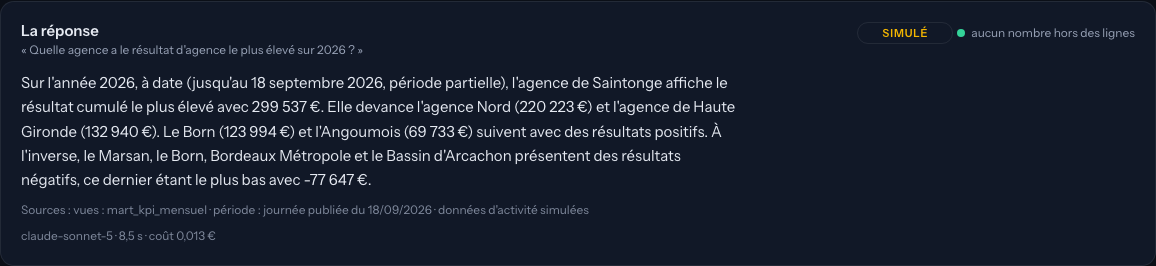
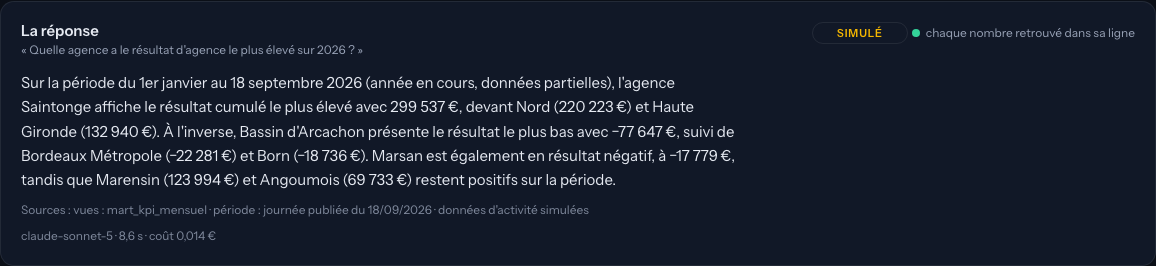
docs: captures de l'écran Analyste refaites après le contrôle d'attribution, guide illustré et reprise à jour

diff --git a/docs/REPRISE.md b/docs/REPRISE.md
@@ -2,14 +2,14 @@
 
 À lire en premier en reprenant une session (avec `CLAUDE.md`). Ce fichier remplace la relecture intégrale de `docs/` : il donne l'état exact, les décisions prises et la feuille de route. Le détail des preuves est dans `docs/JOURNAL.md`.
 
-## État au 19 septembre 2026, 03:00
+## État au 19 septembre 2026, 12:30
 
-- **En ligne** : https://buta.lyfh.fr (lots 0 à 4b déployés, lot 5 en cours). Onze écrans finis (Vue d'ensemble, Territoires, Funnel, Ventes et marge, Forecast, Pose et encaissement, Plans d'action et rituels, Qualité, Automatisations, Analyste, Méthode). Analyste en navigation depuis le 19 septembre : clé `ANTHROPIC_API_KEY` posée par Frédéric le 18 au soir (budget `IA_BUDGET_JOUR_EUR` = 5), évaluation 24/24 (100 %) après trois passes (JOURNAL lot 5 : migration 0031 catalogue commenté colonne par colonne et surcharge `round`, socle IA avec cache du prompt, budgets de sortie et rejeu sans réflexion). Badge de fraîcheur en direct, e2e 42/42 contre la production, Lighthouse 96 à 100 en performance et 100 en accessibilité sur les onze écrans (Analyste : 100 partout).
+- **En ligne** : https://buta.lyfh.fr (lots 0 à 4b déployés, lot 5 en cours). Onze écrans finis (Vue d'ensemble, Territoires, Funnel, Ventes et marge, Forecast, Pose et encaissement, Plans d'action et rituels, Qualité, Automatisations, Analyste, Méthode). Analyste en navigation depuis le 19 septembre : clé `ANTHROPIC_API_KEY` posée par Frédéric le 18 au soir (budget `IA_BUDGET_JOUR_EUR` = 5), évaluation 24/24 (100 %) à 2 h 40 après trois passes (JOURNAL lot 5 : migration 0031 catalogue commenté colonne par colonne et surcharge `round`, socle IA avec cache du prompt, budgets de sortie et rejeu sans réflexion), puis relecture à trois lentilles de l'écran le matin du 19 (80 réfutations, corrections déployées à midi : période bornée à la journée publiée, sources et badge calculés par le programme, codes traduits en libellés avant la rédaction, contrôle des nombres en lettres, en signe et en attribution phrase par phrase, statut quota, écran revu, migration 0033 purge du journal ; passes de contrôle 10/10 sur les questions à libellés multiples avec le critère renforcé). Le jeu complet (24 questions, 0,35 €) est à rejouer avant le gel de lundi, quand le budget du jour est remis à zéro (minuit, heure de Paris). Badge de fraîcheur en direct, e2e 42/42 contre la production, Lighthouse 96 à 100 en performance et 100 en accessibilité sur les onze écrans (Analyste : 100 partout).
 - **Relecture à trois lentilles faite le 18 septembre** (JOURNAL, lot 5) : lentilles faits et recruteur traitées (17 corrections, migration 0027 : pagination PostgREST, prorata des coûts d'acquisition, CA réalisé exact, double comptage des salaires techniciens corrigé, taux d'annulation immature en n. d., cohorte mûre pour la matrice et les canaux, part retenue du run-rate, exports n8n inactifs tant qu'absents) ; lentille forme et typographie traitée le soir (espace insécable U+00A0 à la place de la fine, migration 0029, palette à huit couleurs, en-têtes de tableaux, Sankey vertical sur téléphone, axes et colonnes à unité unique) ; polices préchargées depuis `public/fonts/` (décalage de mise en page 0,26 vers 0 sous 4G). Migrations jusqu'à 0029. Points renvoyés à Frédéric : nom de l'agence « Nord » près de Lumélio sur Méthode, monogramme ambre, titre et classement de Territoires, courbe de qualité sur 17 jours ; points de forme non retenus listés dans le journal.
 - **Guide illustré** : `docs/GUIDE_ILLUSTRE.md` (contexte, vocabulaire, données, lecture de chaque visuel, notice d'utilisation) avec 86 captures dans `docs/captures/guide/` (scripts `scratchpad/captures-guide.mjs` et `scratchpad/captures-analyste.mjs`, à relancer après un changement visuel ; le second pose deux questions au modèle) ; `docs/GUIDE.md` reste le guide de présentation pour l'entretien.
-- **Données** : projet Supabase `renovscope` (`iuremijuoxkzvfqyrmcc`), schéma `buta` exposé à l'API. Migrations 0001 à 0032 appliquées (0028 filet pg_cron ; 0029 espace insécable dans les alertes ; 0030 lecture de `source_fraicheur` par `analyste_ro` ; 0031 commentaires de colonnes du catalogue et `buta.round(double precision, integer)` ; 0032 search_path de cette fonction ; 0017 journée plafonnée et `mart_fraicheur` ; 0018 et 0019 performance et contrôles bornés ; 0020 délais sur place et à distance ; 0021 `publier_revue` ; 0022 à 0025 fonctions de l'analyste, droits du rôle service ; 0026 espace fine dans les alertes ; 0027 corrections de la relecture ; 0001 à 0016 (0011 : prorata ; 0012 : remises ; 0013 : hypothèses du forecast ; 0014 : objectif mensuel ; 0015 : médianes lead vers RDV ; 0016 : réconciliation des libellés). 72 261 dossiers simulés (59 838 publiés au 17/09) après recalibrage à 80 leads par commercial, marché réel 96 départements et 4 691 communes. Vingt et une vues `mart_`, toutes sous la seconde. Tests SQL `SUPABASE_DB_SSL_NON_VERIFIE=1 npm run test:sql` : 20/20 (sept histoires retrouvées). Toute lecture de vue passe par `useVue`, qui pagine par 1 000 lignes.
-- **Lots 2, 3, 4a terminés, 4b presque** : n8n WF0, WF1, WF2, WF3, WF5 créés (ids dans le journal n8n : AC7dqLMndvCXmjaM, k4Wi3cCWDQJVh1aa, WGTXNV9ZaTStScIn, 5dH74AM8Ikf47G3Q, 12UDhdAfqX67XAoL) mais **non publiés** : il manque le credential n8n « Supabase Buta (service role) » (type Supabase API), à créer par Frédéric ; ensuite : rattacher le credential aux nœuds HTTP, exécuter chaque workflow à la main, vérifier `mart_automatisation`, publier WF0 puis les autres avec `errorWorkflow = AC7dqLMndvCXmjaM`, exporter les JSON dans `n8n/`. Edge Functions `analyste` (v8) et `expliquer-ecart` (v8) déployées et branchées sur claude-sonnet-5 ; l'évaluation ne se rejoue pas avant mardi (environ 4 € consommés sur les 5 € du 19 septembre, compteur en heure UTC ; une passe coûte 0,33 € avec le cache). Redéploiement par le MCP `deploy_edge_function` avec les fichiers `index.ts`, `prompts.ts`, `garde-fous.ts` (analyste), `deno.json`, `../_partage/commun.ts`, `../_partage/base.ts` (analyste), `../_partage/nombres.ts` ; compter une minute après un redéploiement (erreur transitoire PGRST303).
-- **Reste (lot 5)** : credential n8n (voir ci-dessus), décisions renvoyées à Frédéric, journal final, gel lundi 21 septembre à 20 h. Publication d'avance faite jusqu'au 25 septembre ; rejouer `SUPABASE_DB_SSL_NON_VERIFIE=1 npm run publier -- --jusqua 2026-09-25` avant le gel pour rafraîchir l'heure d'intégration (contrôle 11), puis `npm run instantane`, `npm run deploiement`, e2e production. WF4 (marché mensuel) n'est pas construit : rejeu par `npm run ingerer:marche` (BACKLOG US-043).
+- **Données** : projet Supabase `renovscope` (`iuremijuoxkzvfqyrmcc`), schéma `buta` exposé à l'API. Migrations 0001 à 0033 appliquées (0028 filet pg_cron ; 0029 espace insécable dans les alertes ; 0030 lecture de `source_fraicheur` par `analyste_ro` ; 0031 commentaires de colonnes du catalogue et `buta.round(double precision, integer)` ; 0032 search_path de cette fonction ; 0033 purge des questions journalisées à 30 jours et dernière colonne commentée ; 0017 journée plafonnée et `mart_fraicheur` ; 0018 et 0019 performance et contrôles bornés ; 0020 délais sur place et à distance ; 0021 `publier_revue` ; 0022 à 0025 fonctions de l'analyste, droits du rôle service ; 0026 espace fine dans les alertes ; 0027 corrections de la relecture ; 0001 à 0016 (0011 : prorata ; 0012 : remises ; 0013 : hypothèses du forecast ; 0014 : objectif mensuel ; 0015 : médianes lead vers RDV ; 0016 : réconciliation des libellés). 72 261 dossiers simulés (59 838 publiés au 17/09) après recalibrage à 80 leads par commercial, marché réel 96 départements et 4 691 communes. Vingt et une vues `mart_`, toutes sous la seconde. Tests SQL `SUPABASE_DB_SSL_NON_VERIFIE=1 npm run test:sql` : 20/20 (sept histoires retrouvées). Toute lecture de vue passe par `useVue`, qui pagine par 1 000 lignes.
+- **Lots 2, 3, 4a terminés, 4b presque** : n8n WF0, WF1, WF2, WF3, WF5 créés (ids dans le journal n8n : AC7dqLMndvCXmjaM, k4Wi3cCWDQJVh1aa, WGTXNV9ZaTStScIn, 5dH74AM8Ikf47G3Q, 12UDhdAfqX67XAoL) mais **non publiés** : il manque le credential n8n « Supabase Buta (service role) » (type Supabase API), à créer par Frédéric ; ensuite : rattacher le credential aux nœuds HTTP, exécuter chaque workflow à la main, vérifier `mart_automatisation`, publier WF0 puis les autres avec `errorWorkflow = AC7dqLMndvCXmjaM`, exporter les JSON dans `n8n/`. Edge Functions `analyste` (v12) et `expliquer-ecart` (v10) déployées et branchées sur claude-sonnet-5 ; une passe complète coûte 0,35 € avec le cache, `--questions 4,5,7` en rejoue une partie ; le budget du jour se compte en heure de Paris (4,4 € sur 5 le 19 à midi). Redéploiement par le MCP `deploy_edge_function` avec les fichiers `index.ts`, `prompts.ts`, `garde-fous.ts` (analyste), `deno.json`, `../_partage/commun.ts`, `../_partage/base.ts` (analyste), `../_partage/nombres.ts` ; compter une minute après un redéploiement (erreur transitoire PGRST303).
+- **Reste (lot 5)** : credential n8n (voir ci-dessus), décisions renvoyées à Frédéric, jeu d'évaluation complet après minuit, journal final, gel lundi 21 septembre à 20 h. Publication d'avance faite jusqu'au 25 septembre ; rejouer `SUPABASE_DB_SSL_NON_VERIFIE=1 npm run publier -- --jusqua 2026-09-25` avant le gel pour rafraîchir l'heure d'intégration (contrôle 11), puis `npm run instantane`, `npm run deploiement`, e2e production. WF4 (marché mensuel) n'est pas construit : rejeu par `npm run ingerer:marche` (BACKLOG US-043).
 - **Dépôt** : GitHub `FaridP92/buta-lyfh`, remote HTTPS, `main` à jour. Commits et push à chaque étape vérifiée.
 - **Plan Supabase gratuit : deux projets actifs au plus.** Le 18 septembre à 12 h 15, la réactivation du projet « Perso » a mis `renovscope` (la base de Buta.Lyfh) en pause ; le site a tenu sur l'instantané statique. Décision : `dvf-insights` en pause, `renovscope` réactivé. Ne réactiver aucun autre projet avant mardi 22 septembre sans mettre un projet en pause d'abord (`renovscope` doit rester actif : n8n, badge de fraîcheur, analyste).
 

diff --git a/docs/GUIDE_ILLUSTRE.md b/docs/GUIDE_ILLUSTRE.md
@@ -539,24 +539,24 @@ La question : que répond le cockpit quand on lui pose une question de fait en f
 - Ce que ça montre : les lignes exactes renvoyées par la base, avec les noms de colonnes tels que la requête les a écrits (en minuscules, police à chasse fixe : ce sont des alias SQL, pas des libellés), les codes d'agence, de canal, de produit et de département traduits en libellés par le programme (le modèle reçoit ces libellés et les recopie), triables et exportables comme tout tableau du site.
 - Comment le lire : c'est la matière première de la réponse ; en cas de doute sur une phrase, la ligne fait foi.
 
-![La requête SQL exécutée](captures/guide/analyste-05-la-requete-sql-executee.png)
+![La requête SQL exécutée](captures/guide/analyste-06-la-requete-sql-executee.png)
 
 **La requête SQL exécutée.**
 - Ce que ça montre : la requête telle qu'elle a été validée et exécutée, dans une carte repliée, mise en forme pour la lecture (une clause par ligne) et copiable telle quelle.
 - Comment le lire : un lecteur qui connaît SQL vérifie en quelques secondes le périmètre (agence, mois, canal), les filtres et le calcul ; c'est la transparence qui rend la réponse discutable en réunion.
 
-![Une question refusée](captures/guide/analyste-06-question-refusee.png)
+![Une question refusée](captures/guide/analyste-07-question-refusee.png)
 
 **Une question refusée.**
 - Ce que ça montre : le motif du refus, en une phrase, et un renvoi utile quand il existe (le marché d'un département se lit sur Territoires ; ce que le cockpit contient, sur Méthode). Quatre motifs existent : conseil (« faut-il ouvrir une agence à Niort ? » : le démonstrateur lit le marché, il ne recommande pas), hors périmètre (la météo), données non couvertes (chiffres réels d'une entreprise, résultats par personne, MaPrimeRénov' par commune), écriture (toute demande de modification ou de suppression).
 - Comment le lire : un refus n'est pas une panne, et il a coûté un seul appel court au modèle. Une limite atteinte (cinq questions par minute, vingt par jour, budget du jour) s'affiche à part, « Analyste en pause », sans être un refus.
 
-![Historique de la session](captures/guide/analyste-03-historique-de-la-session.png)
+![Historique de la session](captures/guide/analyste-04-historique-de-la-session.png)
 
 **Historique de la session.**
 - Ce que ça montre : les dix dernières questions posées dans ce navigateur, avec l'heure et le statut (répondu, lignes seules, refusé, en pause) ; un clic rouvre la réponse. L'historique visible n'existe que dans ce navigateur ; côté serveur, la question, sa requête et son statut sont journalisés avec une empreinte hachée de l'adresse et du navigateur, jamais l'adresse, et purgés après trente jours.
 
-![Garde-fous](captures/guide/analyste-04-garde-fous.png)
+![Garde-fous](captures/guide/analyste-05-garde-fous.png)
 
 **Garde-fous.**
 - Ce que ça montre : ce que l'analyste ne peut pas faire, par construction : lecture seule sur les vues, une seule requête SELECT validée avant exécution (mots interdits, vues hors liste, schémas système refusés), contrôle des nombres, refus explicites, quotas (cinq questions par minute et vingt par jour par adresse et navigateur hachés, quatre cents par jour au total) et, en dernière ligne, le budget du jour consommé, toutes fonctions IA confondues.
